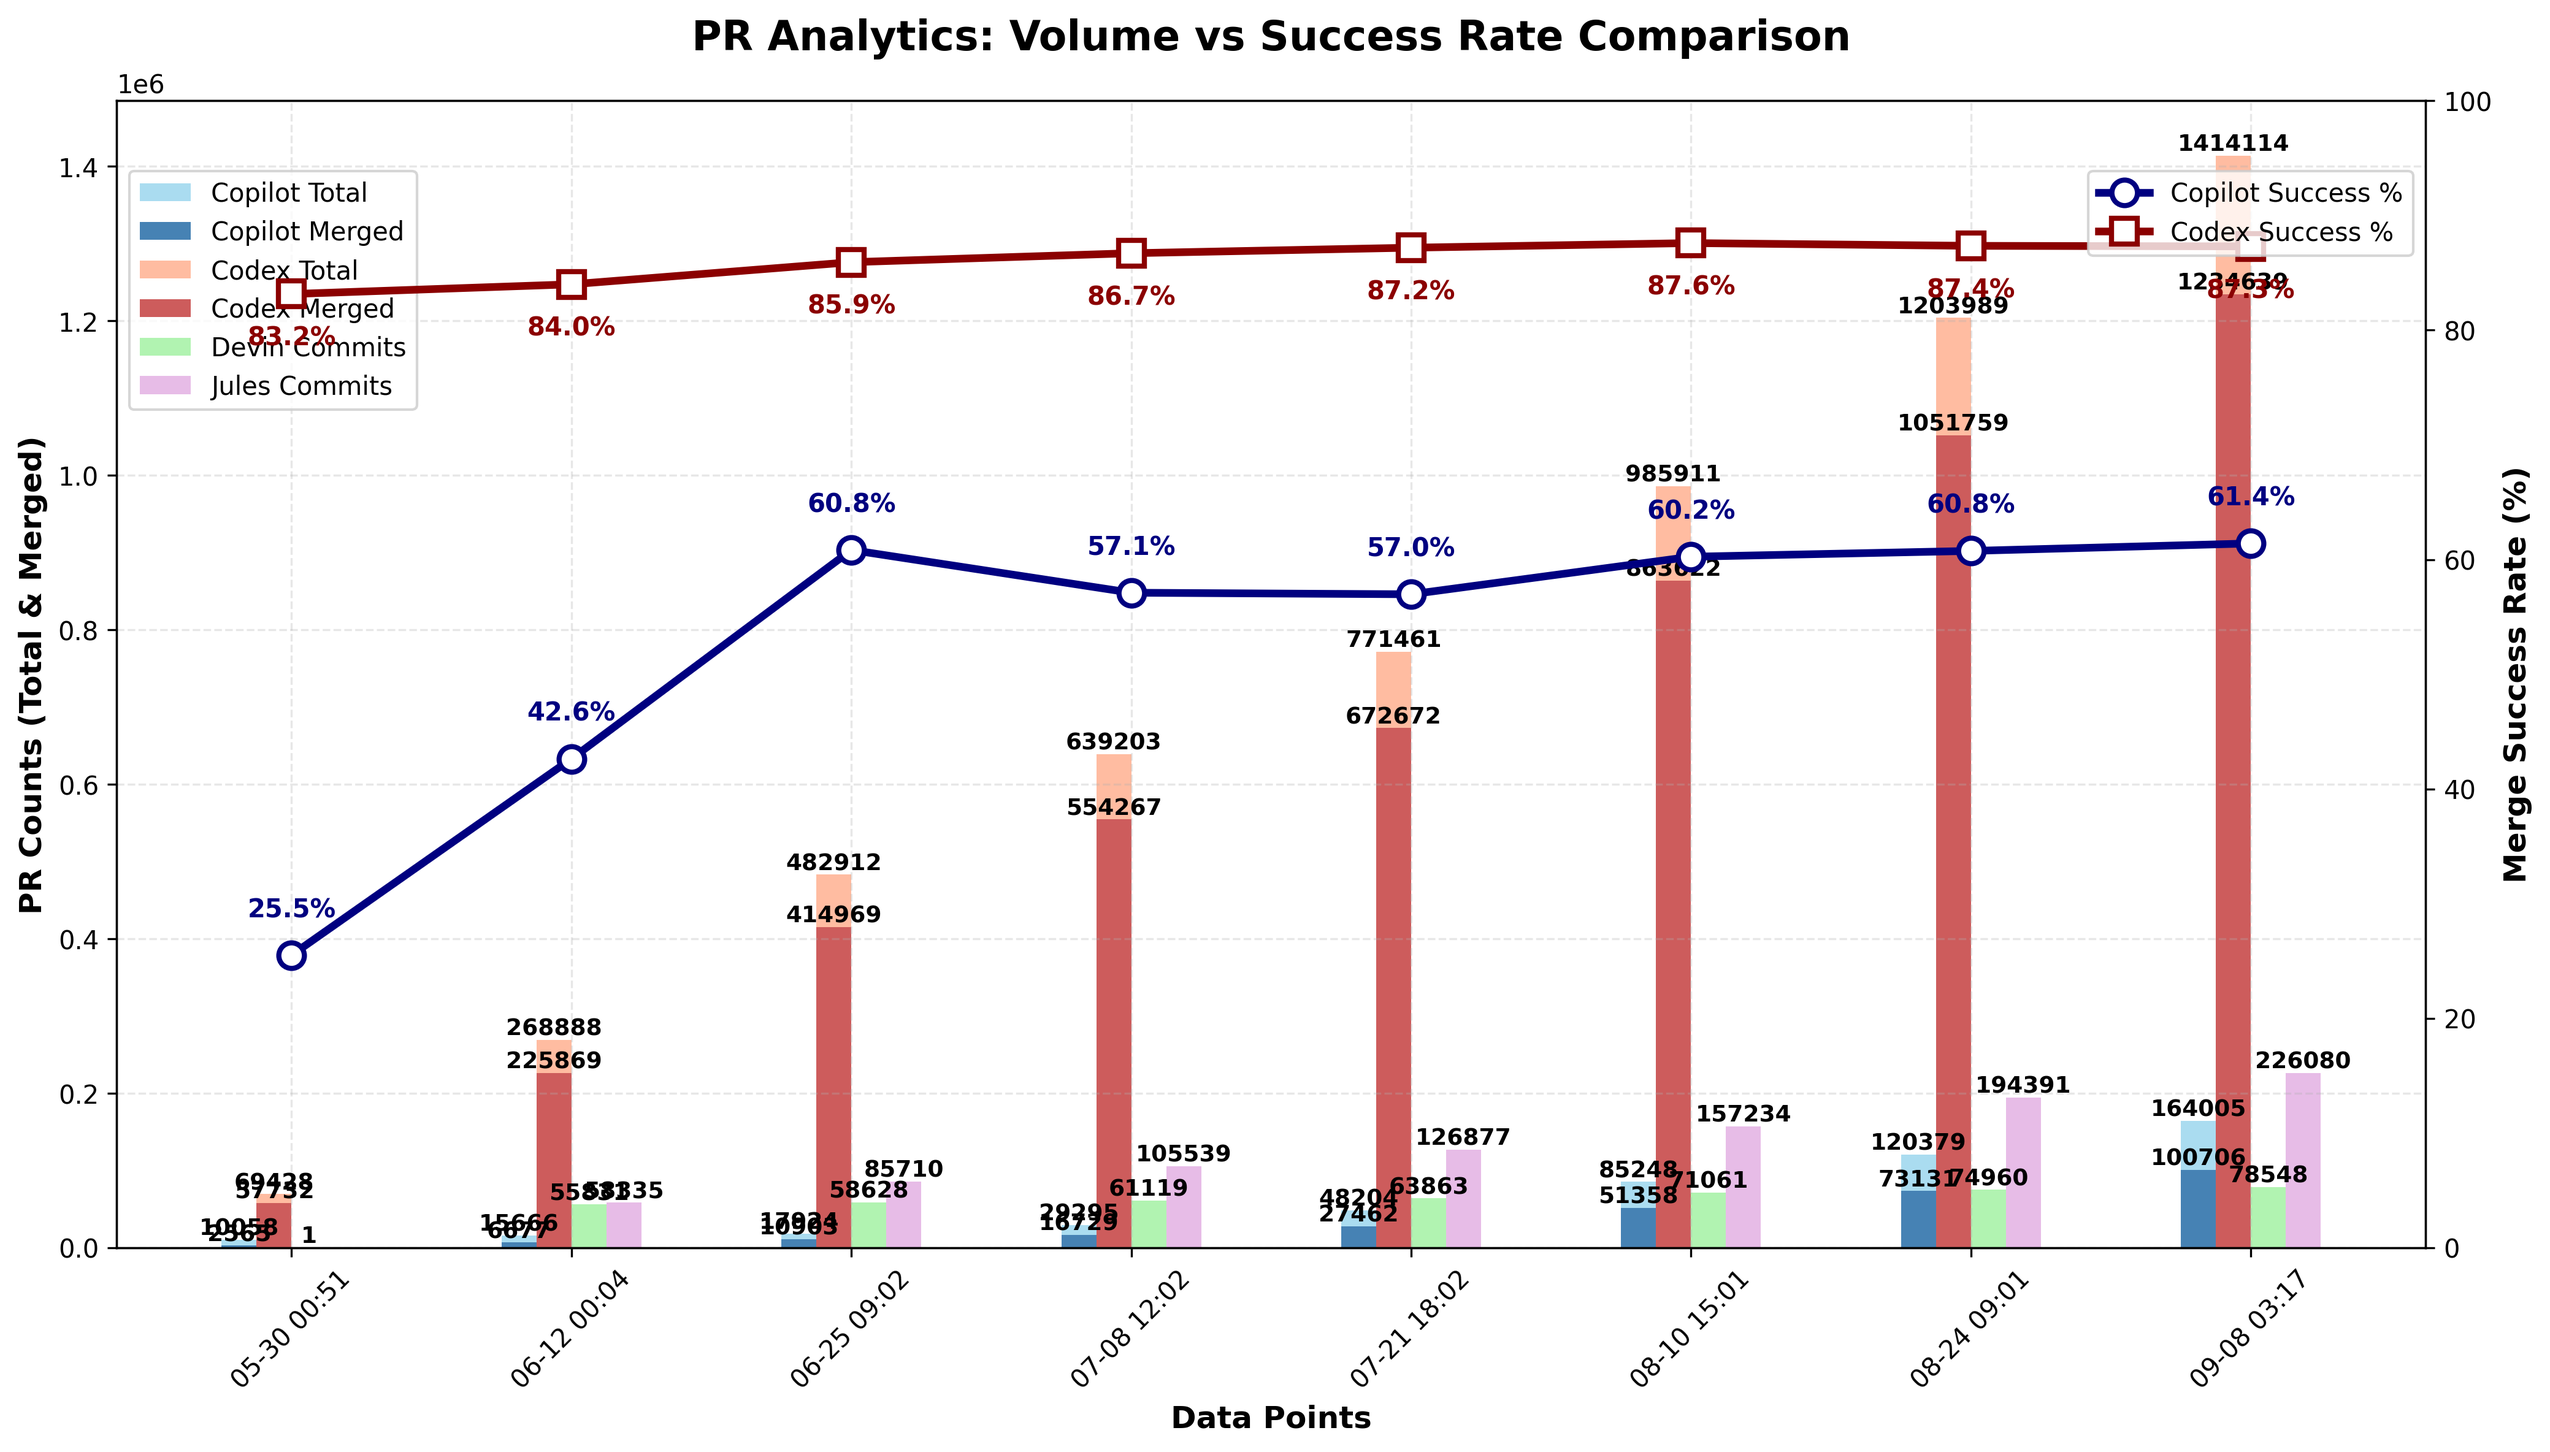
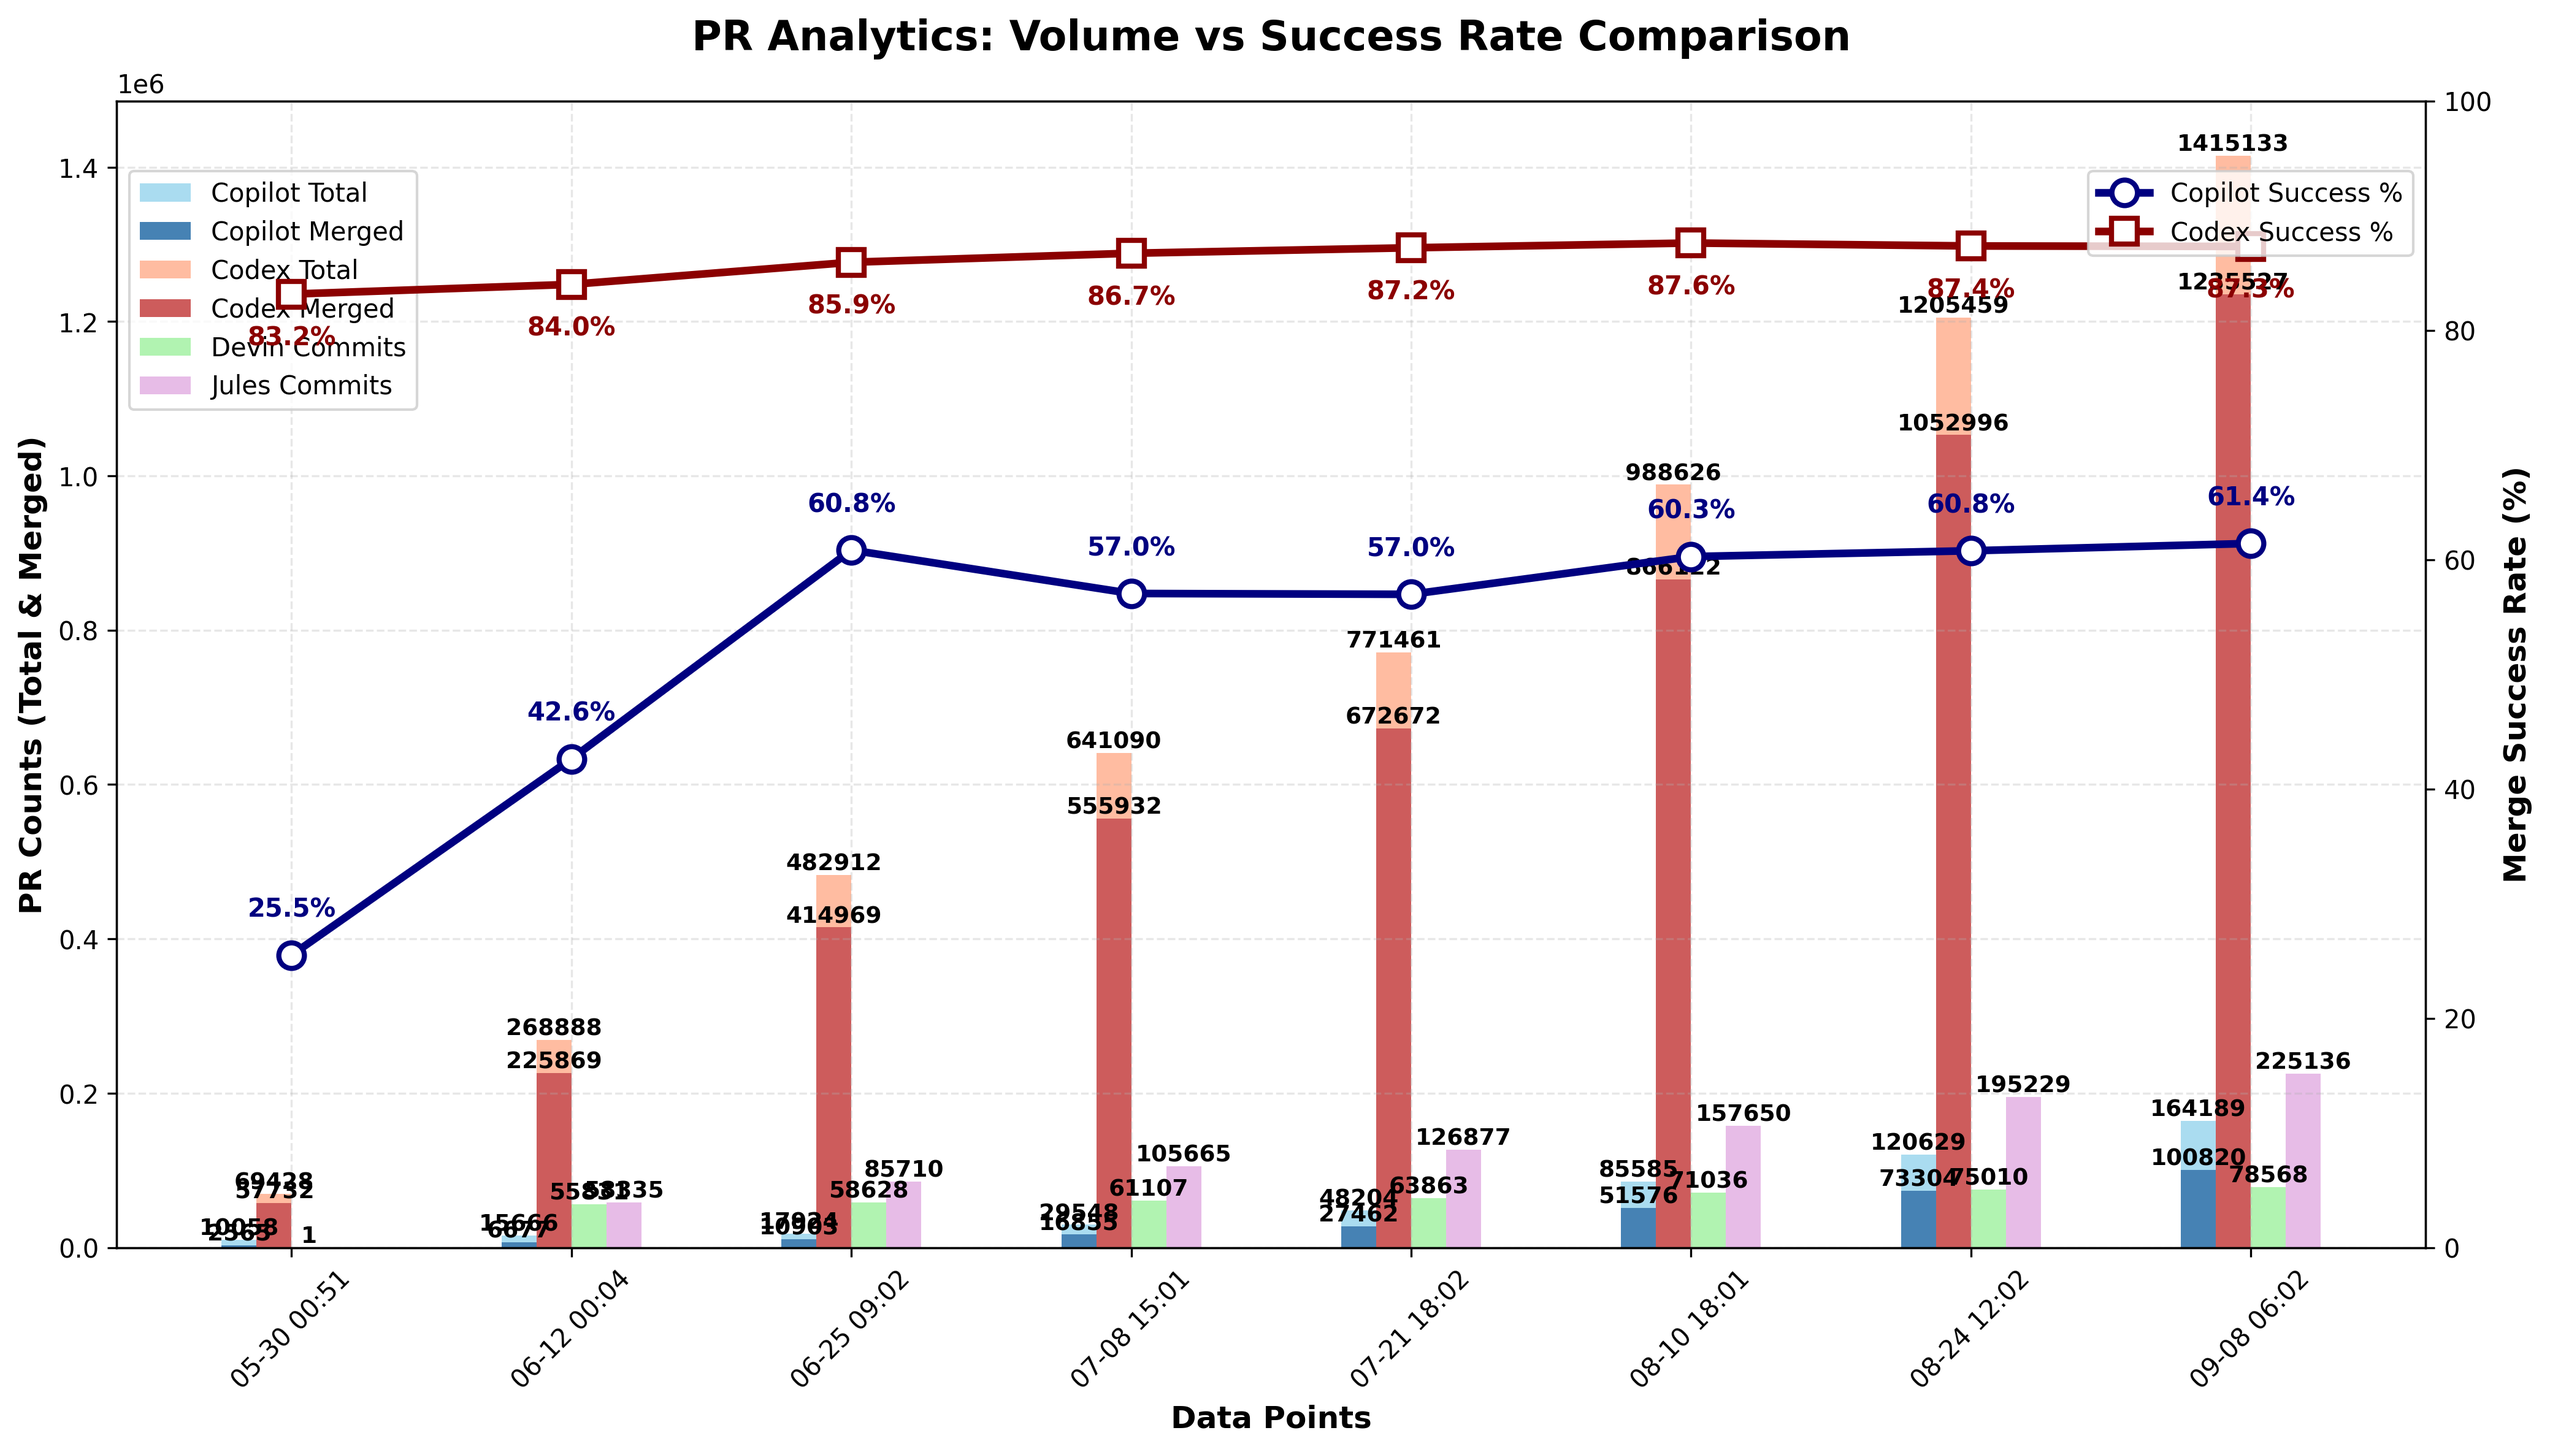
chore: update PR‑approval chart

diff --git a/docs/index.html b/docs/index.html
@@ -785,6 +785,7 @@
                         <td>N/A</td>
                         <td>N/A</td>
                         <td>N/A</td>
+                        <td>N/A</td>
                     </tr>
                     <tr>
                         <td>Codex</td>
@@ -1528,27 +1529,28 @@
                         <td>N/A</td>
                         <td>N/A</td>
                         <td>N/A</td>
+                        <td>N/A</td>
                     </tr>
                 <tr>
                         <td>Devin</td>
                         <td>N/A</td>
                         <td>N/A</td>
                         <td>N/A</td>
-                        <td>78,548</td>
+                        <td>78,568</td>
                     </tr>
                     <tr>
                         <td>Jules</td>
                         <td>N/A</td>
                         <td>N/A</td>
                         <td>N/A</td>
-                        <td>226,080</td>
+                        <td>225,136</td>
                     </tr>
                     </tbody>
             </table>
         </section>
 
         <footer>
-            <p>Last updated: <span id="last-updated">September 08, 2025 03:17 UTC</span></p>
+            <p>Last updated: <span id="last-updated">September 08, 2025 06:02 UTC</span></p>
             <p><a href="https://github.com/aavetis/ai-pr-watcher">View on GitHub</a></p>
         </footer>
     </div>

diff --git a/README.md b/README.md
@@ -19,7 +19,7 @@ Explore the GitHub search queries used:
 
 | Service | Total PRs | Merged PRs | Merge Rate | Total Commits |
 | ------- | --------- | ---------- | ---------- | ------------- |
-| Copilot | 164,005 | 100,706 | 61.40% | N/A           |
-| Codex   | 1,414,114 | 1,234,639 | 87.31% | N/A           |
-| Devin   | N/A       | N/A        | N/A        | 78,548 |
-| Jules   | N/A       | N/A        | N/A        | 226,080 |
+| Copilot | 164,189 | 100,820 | 61.40% | N/A           |
+| Codex   | 1,415,133 | 1,235,527 | 87.31% | N/A           |
+| Devin   | N/A       | N/A        | N/A        | 78,568 |
+| Jules   | N/A       | N/A        | N/A        | 225,136 |
